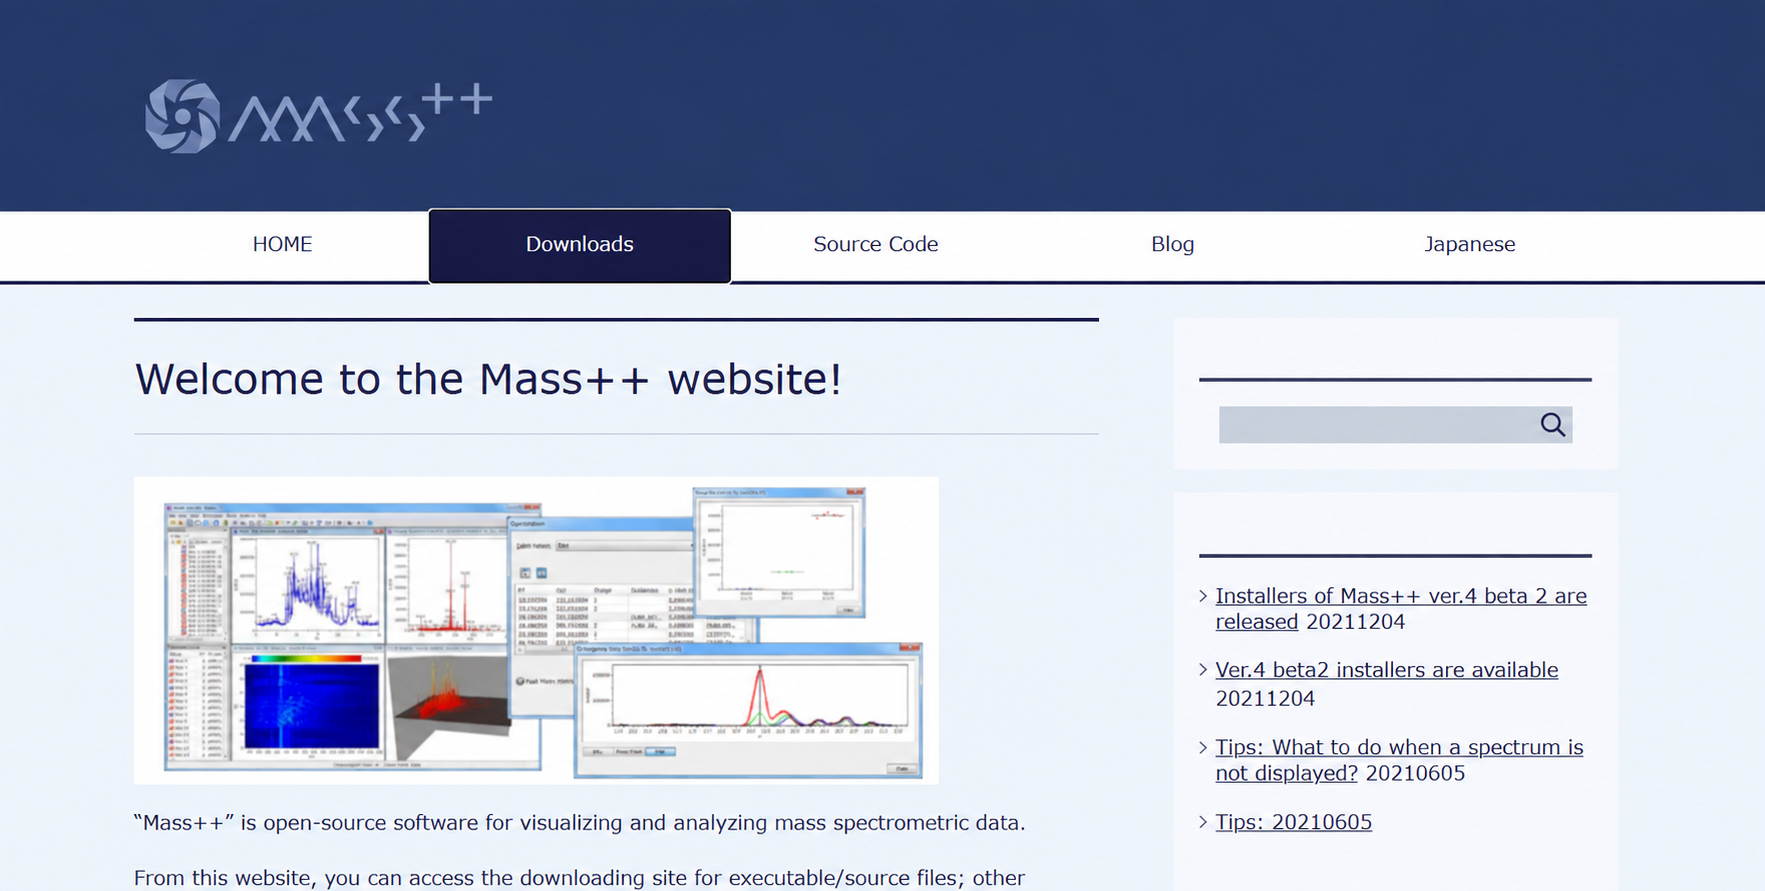
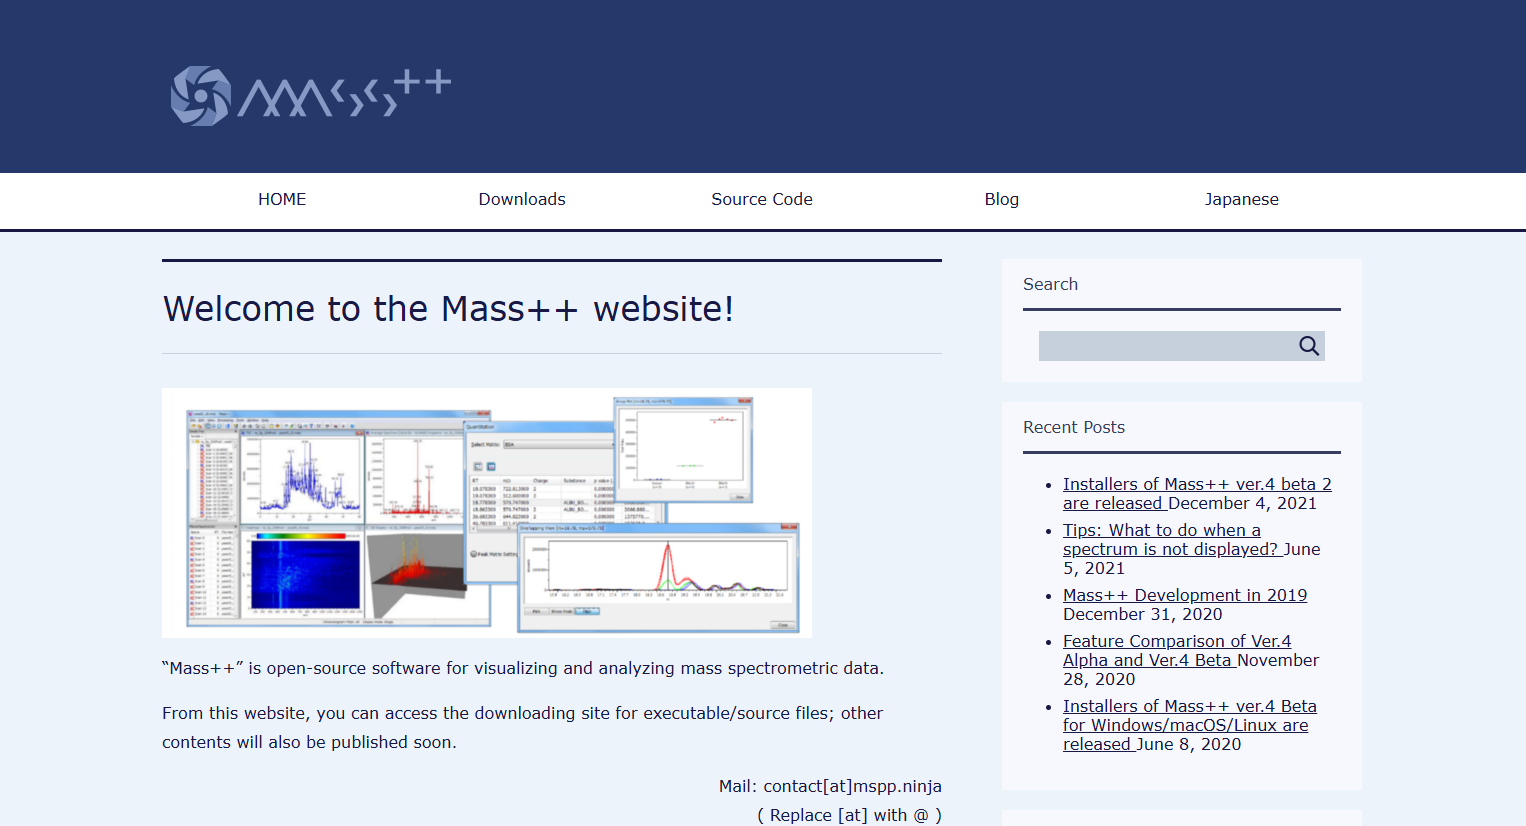
Use separate English and Japanese screenshots in the installation chapter.
- Add English (-en) and Japanese (-ja) versions of the screenshots 01-01 to
  01-03, and remove the old ones.
- Describe the download steps as they appear on the English and the Japanese
  site, including scrolling down to the installer list.

Changed region(s): [[0.0, 0.2119, 1.0, 0.9988], [0.0616, 0.0605, 0.308, 0.1816]]

diff --git a/01_Installation_ja.md b/01_Installation_ja.md
@@ -7,23 +7,26 @@ Mass++4 は、プラットフォームごとにすぐにインストールでき
 ##  インストーラのダウンロード
 
 1. Mass++ のウェブサイト <https://mspp.ninja/> を開きます。
-   ページ上部のメニューにある **Downloads** をクリックします。
+   英語で表示された場合は、メニューの **Japanese** をクリックすると日本語で表示
+   されます。ページ上部のメニューにある **ダウンロード** をクリックします。
 
-   ![Mass++ ウェブサイトのトップページ](images/screenshots/01-01-mspp_top.png)
+   ![Mass++ ウェブサイトのトップページ](images/screenshots/01-01-mspp_top-ja.png)
 
-2. Mass++/Mass++4 のポータル <https://develop.mspp.ninja/> が開きます。
-   **Binary package (Installer) downloads** -> **Current (Latest) version** に進み、
-   *Ver.4 (Mass++4) Series (Latest Build)* の **Download page** リンクをクリック
-   します。
+2. Mass++/Mass++4 のポータル <https://develop.mspp.ninja/README.jpn.html> が開き
+   ます。**実行形式パッケージ（インストーラー）・ダウンロード** ->
+   **現行（最新）バージョン** に進み、*Ver.4（Mass++4）系列（最新ビルド）* の
+   **ダウンロードページ** リンクをクリックします。
 
-   ![ポータルのバイナリパッケージのダウンロード](images/screenshots/01-02-develop_mspp.png)
+   ![ポータルのバイナリパッケージのダウンロード](images/screenshots/01-02-develop_mspp-ja.png)
 
-3. [Mass++4 Executable File Download](https://mspp.ninja/mass4-executable-file-download/)
-   ページが開きます。ページ先頭の最新版から、お使いのプラットフォームのパッケージの
-   「ダウンロード」ボタンをクリックします。
-   下のスクリーンショットは、ver.1.0.0 の例です。
+3. [Mass++4 実行ファイルダウンロード](https://mspp.ninja/mass4-%e5%ae%9f%e8%a1%8c%e3%83%95%e3%82%a1%e3%82%a4%e3%83%ab%e3%83%80%e3%82%a6%e3%83%b3%e3%83%ad%e3%83%bc%e3%83%89/)
+   ページが開きます。ページの冒頭には、Mass++ を使った結果を発表するときに引用する
+   論文も記載されています。
 
-   ![ダウンロードページのインストーラ一覧](images/screenshots/01-03-downloadpage.png)
+   ![Mass++4 実行ファイルダウンロードページ](images/screenshots/01-03-download-page-ja.png)
+
+4. 下にスクロールして **インストーラーのダウンロード** に進み、最新版から、お使いの
+   プラットフォームのパッケージの **ダウンロード** ボタンをクリックします。
 
 | プラットフォーム | ページ上のパッケージ | 形式 |
 | --- | --- | --- |
@@ -32,8 +35,7 @@ Mass++4 は、プラットフォームごとにすぐにインストールでき
 | Debian / Ubuntu | `Mass++4 <version> (Linux-Debian/Ubuntu)` | `.deb` |
 | RHEL / AlmaLinux などの RPM 系ディストリビューション | `Mass++4 <version> (Linux-RPM)` | `.rpm` |
 
-Linux 用のパッケージは、上のスクリーンショットに写っているものより下、同じページの
-さらに下にあります。古いビルドはその下の *[Mass++4 Installer - Previous Versions]*
+古いビルドは、同じページのさらに下にある *【Mass++4インストーラー・過去のバージョン】*
 に、Mass++ ver.2 は別のダウンロードページにあります。どちらもこのマニュアルの対象外
 です。
 

diff --git a/01_Installation.md b/01_Installation.md
@@ -16,14 +16,16 @@ installed separately.
    version**, and click the **Download page** link of the
    *Ver.4 (Mass++4) Series (Latest Build)*.
 
-   ![Binary package downloads on the portal](images/screenshots/01-02-develop_mspp.png)
+   ![Binary package downloads on the portal](images/screenshots/01-02-develop_mspp-en.png)
 
 3. The [Mass++4 Executable File Download](https://mspp.ninja/mass4-executable-file-download/)
-   page opens. Under the latest version at the top of the page, click the
-   download button (ダウンロード) of the package for your platform.
-   The screenshot below shows ver.1.0.0 as an example.
+   page opens. The top of the page also shows the Mass++ paper to cite when you
+   publish results obtained with Mass++.
 
-   ![Installer list on the download page](images/screenshots/01-03-downloadpage.png)
+   ![Mass++4 Executable File Download page](images/screenshots/01-03-download-page-en.png)
+
+4. Scroll down to **Download of the installer**. Under the latest version, click
+   **Download** of the package for your platform.
 
 | Platform | Package on the page | Format |
 | --- | --- | --- |
@@ -32,9 +34,9 @@ installed separately.
 | Debian / Ubuntu | `Mass++4 <version> (Linux-Debian/Ubuntu)` | `.deb` |
 | RHEL / AlmaLinux and other RPM distributions | `Mass++4 <version> (Linux-RPM)` | `.rpm` |
 
-The packages for Linux are listed below the ones shown above, further down the
-same page. Older builds follow under *[Mass++4 Installer - Previous Versions]*,
-and Mass++ ver.2 has its own download page. Neither is covered by this manual.
+Older builds are listed further down the same page under
+*[Mass++4 Installer - Previous Versions]*, and Mass++ ver.2 has its own download
+page. Neither is covered by this manual.
 
 The same installers are also attached to the releases in the source repository:
 <https://github.com/masspp/mspp4-desktop/releases>
